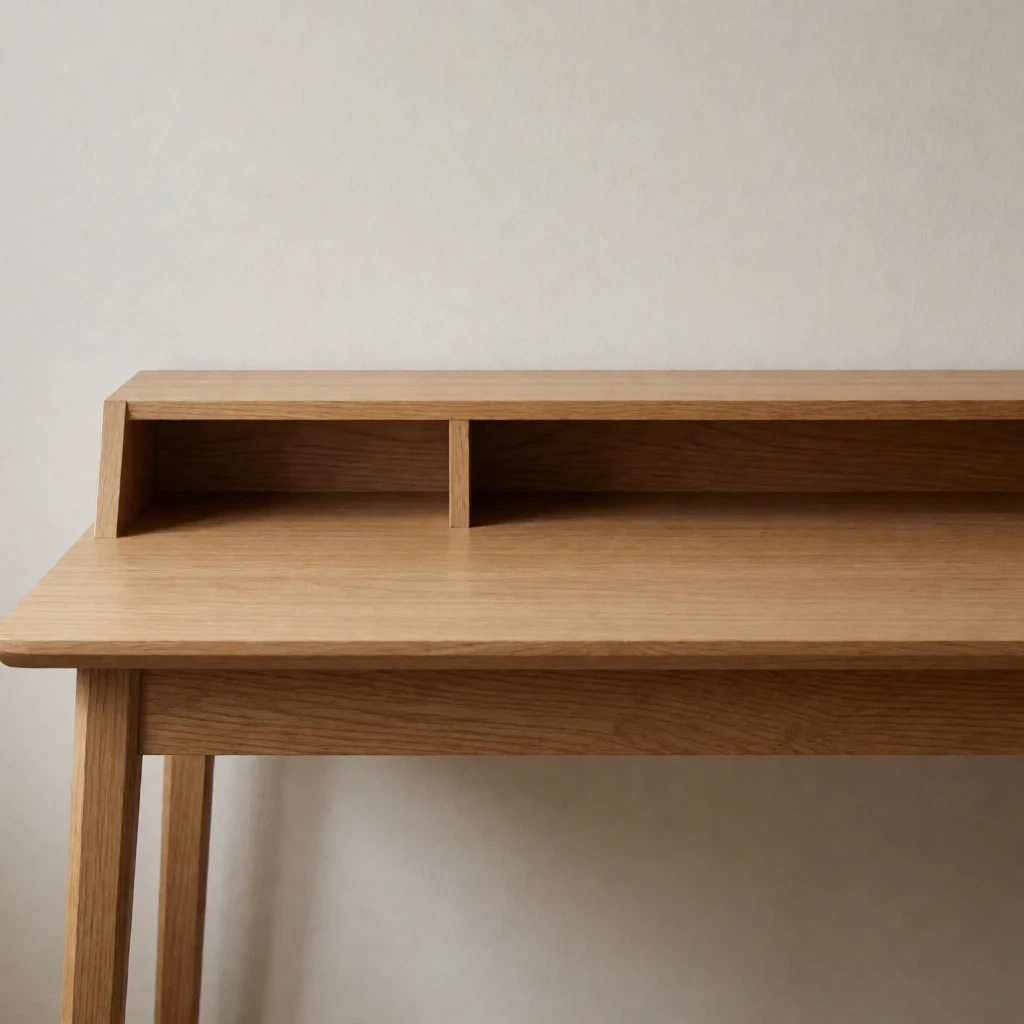
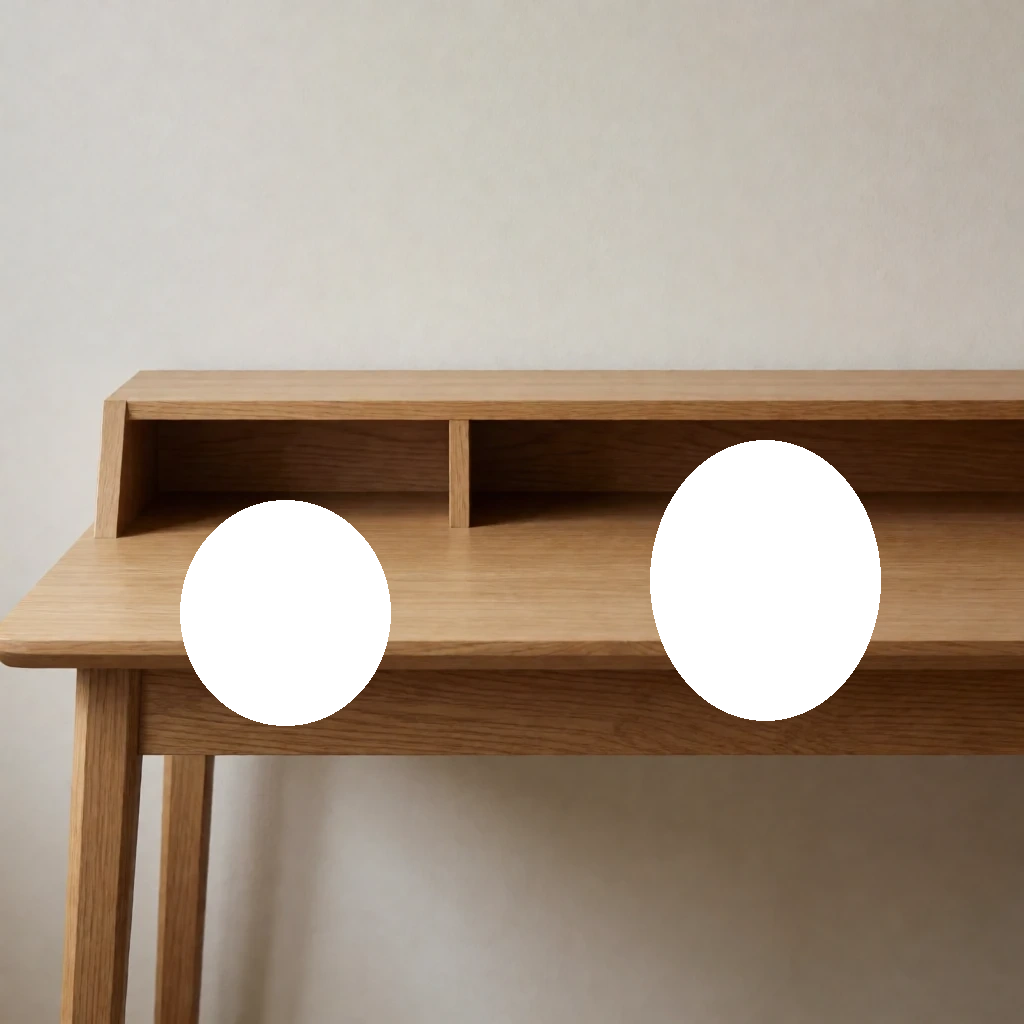
auto: simplify AnyPaint workflow defaults and document mask inputs
Process:
- Update the workflow, node usage and version for this patch.
- Verify mask connections and package contents before publishing.

Logic:
- Keep same-canvas editing as the default and accept standard MASK inputs.
- Preserve existing model weights and sampling behavior.

Owner Requirements:
- Reuse the established workflow conventions and avoid unnecessary defaults or restrictions.
- Explain SAM, mask images, prompt placement and updating saved workflows.

Changed region(s): [[0.625, 0.4062, 0.875, 0.7188], [0.1562, 0.4688, 0.4062, 0.7188]]

diff --git a/moss_runtime/pipeline.py b/moss_runtime/pipeline.py
@@ -2,7 +2,7 @@
 # Copyright 2026 DeepMachine contributors.
 """MOSS AnyPaint inference shared by the HF example and ComfyUI nodes.
 
-Apache-2.0. Uses the reviewed4303-step adapter and unmerged FP32 Base DMD2.
+Apache-2.0. Uses the AnyPaint adapter and unmerged FP32 Base DMD2.
 """
 from __future__ import annotations
 
@@ -39,14 +39,12 @@ class MOSSAnyPaintPipeline:
         if not self.adapter_path.is_file():
             self.adapter_path = Path(hf_hub_download(LOCK["task"]["repo"], LOCK["task"]["file"]))
         if sha(self.adapter_path) != LOCK["task"]["sha256"]:
-            raise ValueError("AnyPaint weight is not the reviewed4303-step release")
+            raise ValueError("AnyPaint adapter does not match this release")
         self.model_dir = Path(model_dir or snapshot_download(
             LOCK["base_model"]["repo"], revision=LOCK["base_model"]["revision"],
             allow_patterns=["transformer/*", "text_encoder/*", "tokenizer/*", "vae/*"]))
         self.distillation_path = Path(distillation_path or hf_hub_download(
             LOCK["distillation"]["repo"], "lora_dmd2.safetensors", revision=LOCK["distillation"]["revision"]))
-        if sha(self.distillation_path) != LOCK["distillation"]["files"]["lora_dmd2.safetensors"]["sha256"]:
-            raise ValueError("Base DMD2 file/revision mismatch")
         self.pipe = None
         self._text = None
         self._prompt_cache = {}

diff --git a/moss_runtime/_adapters.py b/moss_runtime/_adapters.py
@@ -44,8 +44,6 @@ def add_distillation(dit, path):
     from peft.tuners.lora import LoraLayer
     spec = LOCK["distillation"]
     path = Path(path)
-    if sha(path) != spec["files"]["lora_dmd2.safetensors"]["sha256"]:
-        raise RuntimeError("Distillation adapter checksum mismatch")
     state = load_file(str(path))
     targets = r"layers\.\d+\.proj\.(q|k|v|o|ffn_up_gate|ffn_down)"
     inject_adapter_in_model(LoraConfig(r=128, lora_alpha=128, target_modules=targets), dit, adapter_name="distillation")
@@ -67,8 +65,8 @@ def add_distillation(dit, path):
                 parameter_name = name + "." + target + ".distillation.weight"
                 value = state[key]
                 parameter = parameters[parameter_name]
-                if value.dtype != torch.float32 or value.shape != parameter.shape or not torch.isfinite(value).all():
-                    raise RuntimeError(f"Distillation shape/dtype mismatch: {key}")
+                if not value.is_floating_point() or value.shape != parameter.shape or not torch.isfinite(value).all():
+                    raise RuntimeError(f"Incompatible distillation tensor shape or type: {key}")
                 parameter.data = value.to(device="cuda", dtype=torch.float32)
                 copied.add(parameter_name)
                 used.add(key)

diff --git a/nodes.py b/nodes.py
@@ -56,6 +56,12 @@ class MOSSAnyPaintPrepare:
 
     RETURN_TYPES = ("MOSS_ANYPAINT_INPUT", "IMAGE", "MASK")
     RETURN_NAMES = ("prepared", "input_with_mask", "generated_mask")
+    DESCRIPTION = (
+        "Connect source IMAGE and a MASK from SAM, Mask Editor or another mask node. "
+        "For a separate black/white mask image, use ImageToMask (red). "
+        "White/values above 0.5 generate; black/other values preserve. "
+        "Padding defaults to zero; add padding only for outpainting."
+    )
     FUNCTION = "prepare"
     CATEGORY = "MOSS/AnyPaint"
 

diff --git a/README.md b/README.md
@@ -178,9 +178,7 @@ MOSS AnyPaint Loader + prepared input -> MOSS AnyPaint Generate -> Save Image
 MOSS AnyPaint Prepare.input_with_mask -> Preview Image
 ```
 
-Copy `examples/moss_anypaint_source.png` and `examples/moss_anypaint_mask.png`
-into ComfyUI's input folder for the supplied example. Connect the mask through
-`ImageToMask/red`, or use the source image's Mask Editor output directly.
+The default workflow uses one Load Image for both the source and its mask.
 `moss_anypaint_api.json` provides the same graph in ComfyUI API form.
 
 Recommended settings: 8 steps, Euler, CFG 1, shift 5, and both adapter strengths
@@ -196,6 +194,81 @@ source composite.
 Use v0.1.1 or later for full uint64 seed support and corrected source-sized mask
 placement. Update the node code and shared runtime together; no new adapter
 weight download is required.
+
+## Usage
+
+### Inpaint without changing image size
+
+1. Import `moss_anypaint_workflow.json`. Select `moss_anypaint_rank32.safetensors`
+   and the Base 8-step DMD2 `lora_dmd2.safetensors` in **MOSS AnyPaint Loader**.
+   Leave `base_model_dir` blank to download the Base components, or select your
+   local HF model folder. Install requirements first as described above.
+2. Copy `examples/moss_anypaint_source.png` into ComfyUI's input folder and select
+   it in the workflow's **single Load Image** node to run the supplied example.
+   Its edit mask is already embedded in transparency, while the source RGB is
+   retained. For your own image, connect its `IMAGE` to Prepare's `source` and a
+   `MASK` from **SAM or another mask node** to `generated_mask`. Mask Editor is
+   also available through the already-wired Load Image `MASK` output.
+3. Leave Prepare's `left`, `top`, `right`, `bottom` at **0** for same-canvas edits.
+   Dimensions are aligned upward to multiples of 16, so non-aligned inputs can
+   still gain a few right/bottom pixels.
+4. Enter the **complete desired image description** in **MOSS AnyPaint Generate →
+   prompt**, then queue. For object removal, describe the scene that should remain;
+   exact removal is not guaranteed. Generate → Save Image produces the result.
+   Prepare's `input_with_mask` preview shows the actual generated region.
+
+### Outpaint
+
+Set only the side(s) you want to extend in Prepare: `left`, `top`, `right`,
+`bottom`, in pixels. For example, `right=256` adds 256 pixels on the right;
+leave the other sides at 0. Padding creates the generated area automatically,
+so no hand-drawn mask is needed for a pure outpaint. You can also draw an internal
+mask to combine inpainting and outpainting. The source image is not stretched.
+For pure outpainting with the supplied example, clear or disconnect its embedded
+internal mask first, otherwise both regions will be edited.
+
+### Connect a mask from SAM or other nodes
+
+Connect the source `IMAGE` to Prepare's `source`, and a `MASK` from SAM or any
+other mask-producing node to Prepare's `generated_mask`. There is no required
+mask tool. **White / 1 means regenerate; black / 0 means preserve.** For object
+removal, the selected object should be white. Preview the mask to check the
+selection and invert it if the generating node uses the opposite convention.
+
+```text
+Load Image.IMAGE ──────────────────────> AnyPaint Prepare.source
+       └──> SAM / segmentation node ──> AnyPaint Prepare.generated_mask
+```
+
+A segmentation prompt selects **what to mask**; the AnyPaint generation prompt
+in Encode (Krea2) or Generate (MOSS) describes **the image you want afterward**.
+If a mask misses an object's outline, hair or shadow, optionally use a standard
+Grow Mask node before Prepare. Choose the expansion yourself; this workflow
+does not add an automatic growth setting or a required segmentation dependency.
+
+Other optional mask sources:
+
+- **Mask Editor:** use the source Load Image's `MASK` output after saving the edit.
+  The bundled single-Load-Image workflow is wired this way; replace that MASK
+  connection with your SAM output if preferred.
+- **Separate black/white image:** Load Image `IMAGE` → ImageToMask (`red`) →
+  Prepare `generated_mask`. Its ordinary Load Image `MASK` output reads inverse
+  transparency, not black/white colors.
+
+Masks are binary: values above 0.5 generate, all other values preserve. Gray or
+partially transparent masks do not provide proportional edit strength.
+
+### Update existing workflows
+
+Import the updated workflow for the single Load Image setup. Alternatively,
+connect your source Load Image's `MASK` directly to Prepare's `generated_mask`
+and remove the separate mask loader and ImageToMask nodes. For the ready-made
+example, also use the updated `examples/moss_anypaint_source.png`.
+
+The DMD2 loader no longer requires an exact file SHA256. It still needs a
+compatible MOSS Base 8-step DMD2 adapter; renaming an unrelated LoRA does not make
+it compatible. The recommended download is linked under Requirements. Update
+the nodes and shared runtime together. No new AnyPaint weight is required.
 
 ## Credits
 
